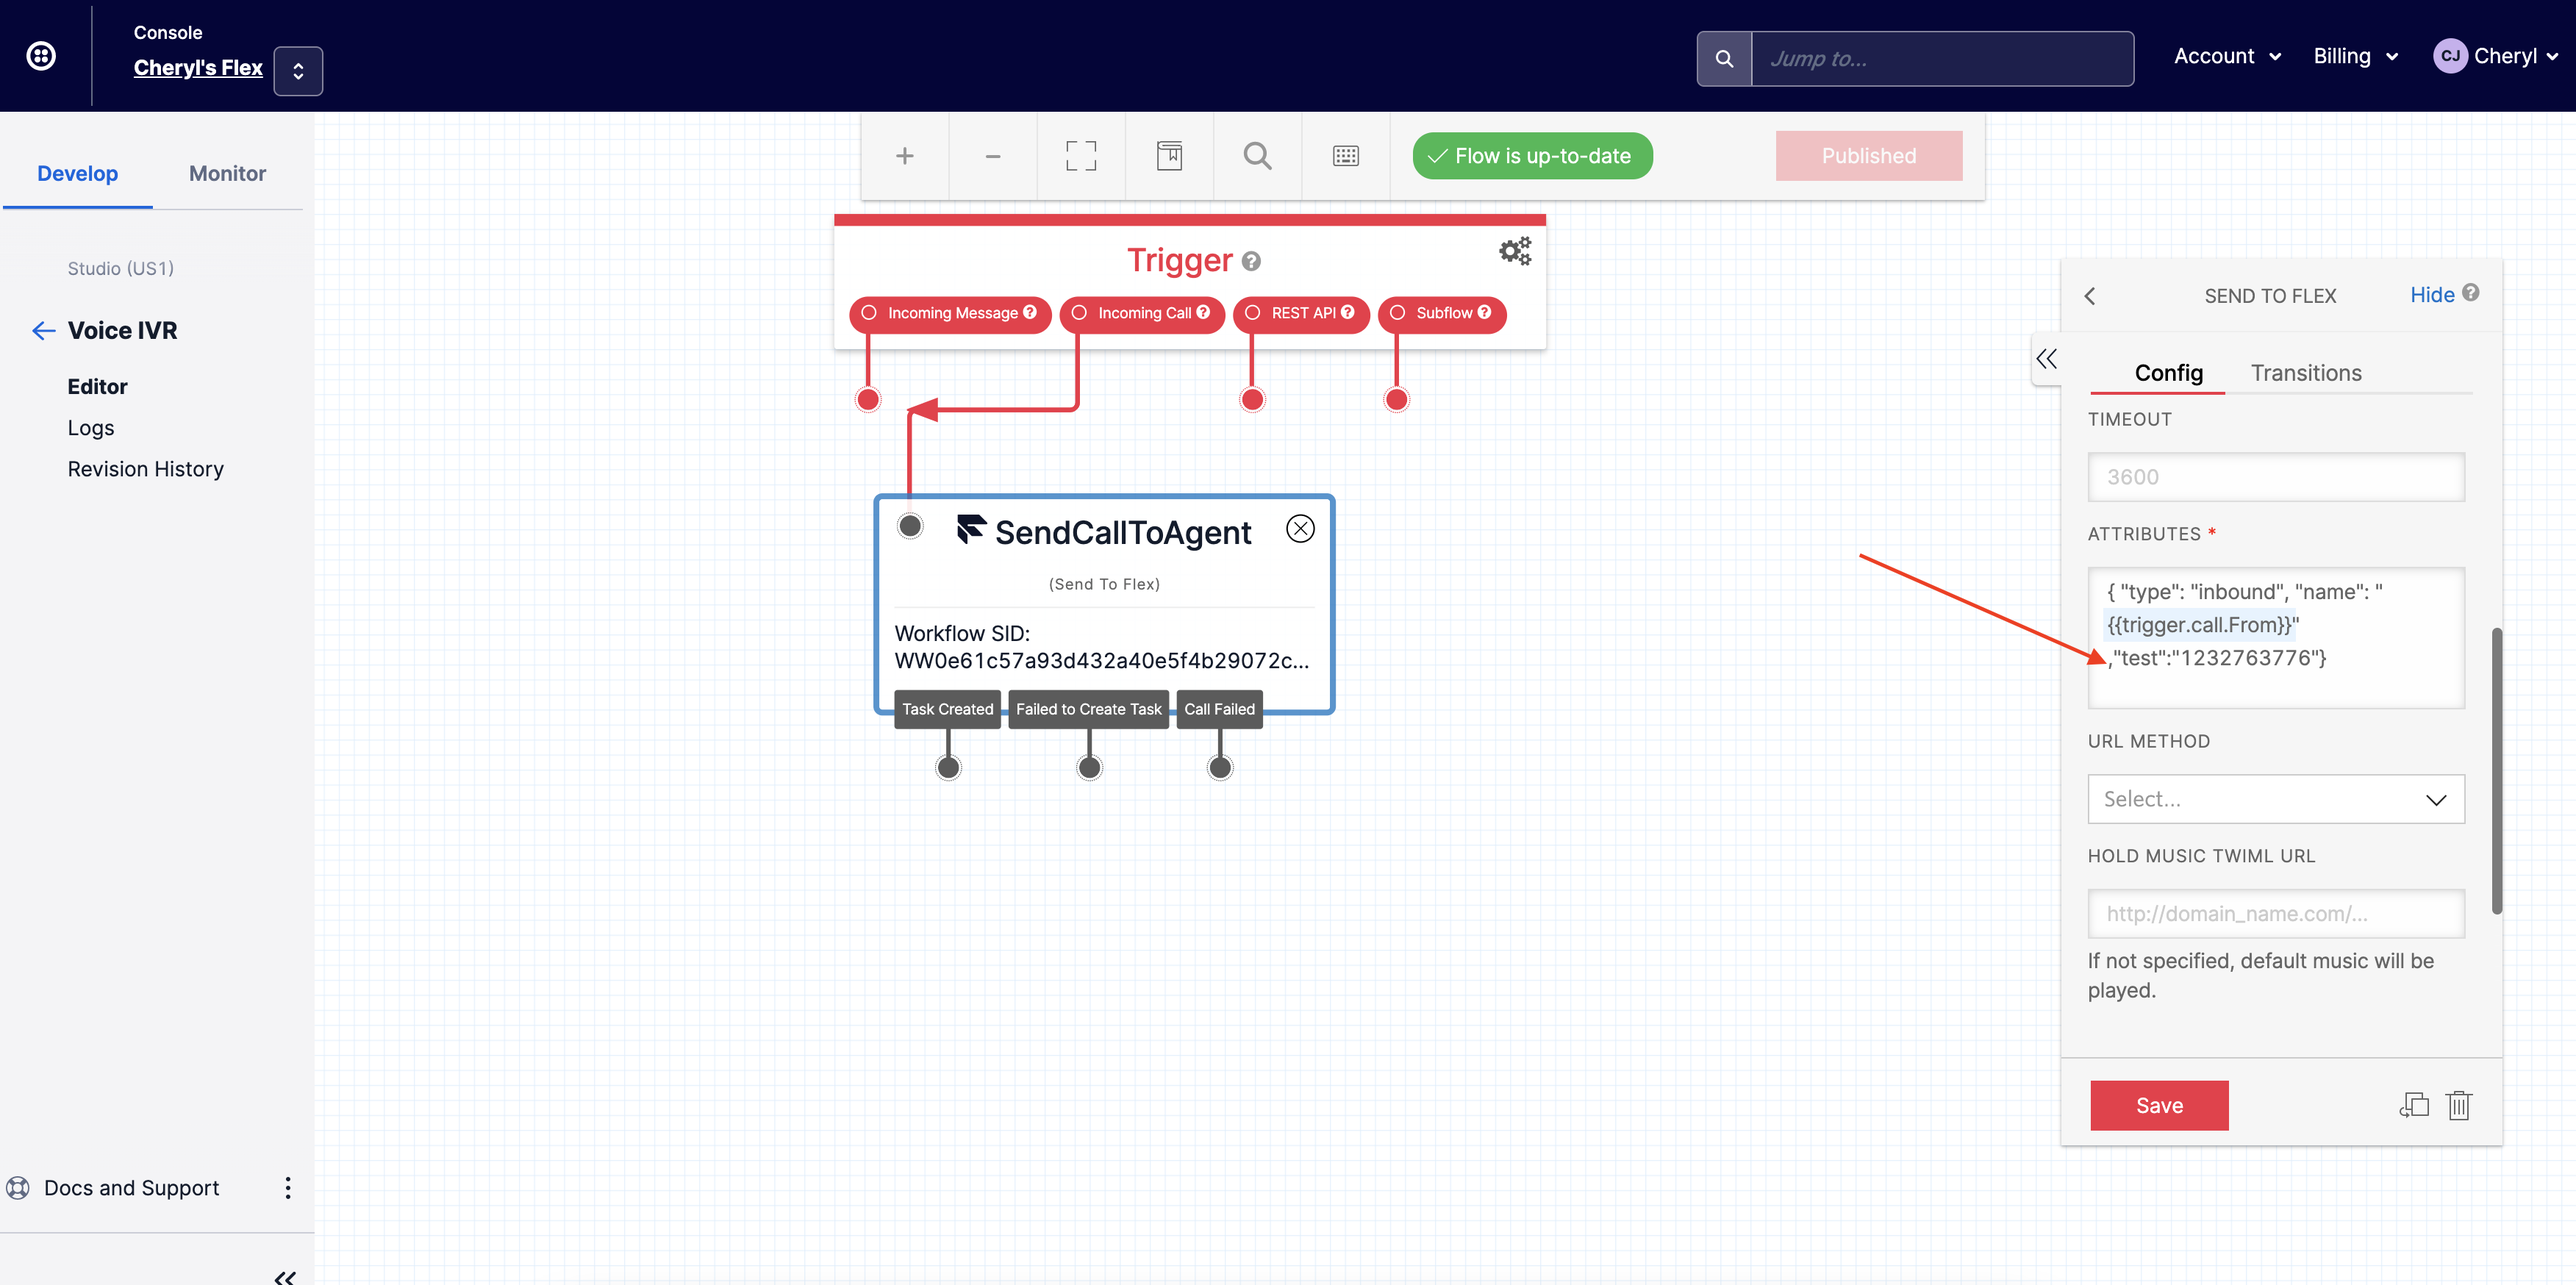
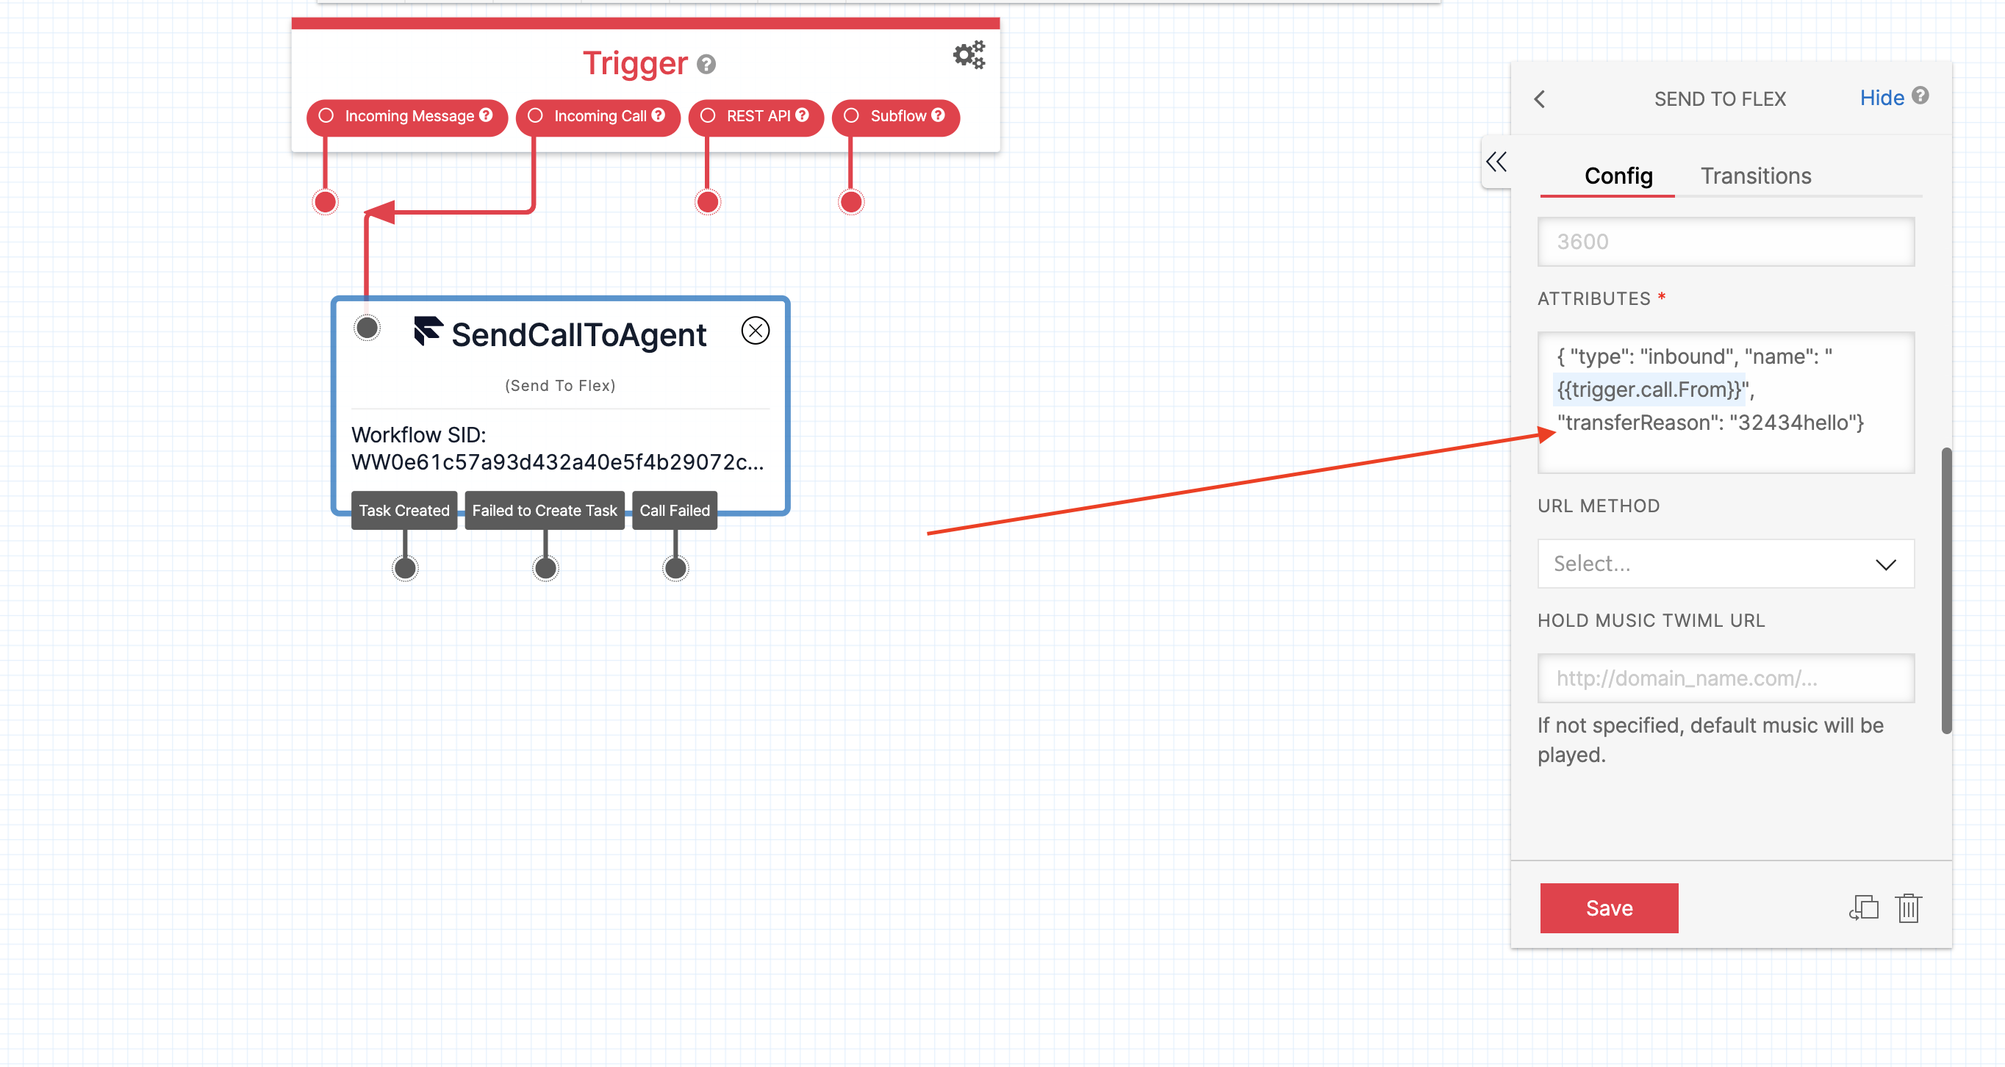
Updated readme and slighty updated the code

diff --git a/src/components/CustomTaskInfo.js b/src/components/CustomTaskInfo.js
@@ -12,8 +12,7 @@ class CustomTaskInfo extends React.Component {
     //retrieve the attribute and assign it to a parameter and populate it within return()
     const { task } = this.props;
     const { attributes, taskSid, reservationSid } = task;
-    const { name, country,test } = attributes;
-    const transferReason = test;
+    const { name, from_country, transferReason } = attributes;
 
 
     return(
@@ -21,10 +20,10 @@ class CustomTaskInfo extends React.Component {
         <h1>Customer Context</h1>
         <h2>Customer Name/ Phone Number</h2>
         <p>{name}</p>
-        {country && (
+        {from_country && (
           <React.Fragment>
             <h2>Country</h2>
-            <p>{country}</p>
+            <p>{from_country}</p>
           </React.Fragment>
         )}
         <hr color='black'></hr>
@@ -32,15 +31,19 @@ class CustomTaskInfo extends React.Component {
         {transferReason && (
           <React.Fragment>
             <h2>Transfer Reason</h2>
-            <p>{test}</p>
+            <p>{transferReason}</p>
           </React.Fragment>
         )}
         <hr color='black'></hr>
         <h1>Task Context</h1>
         <h2>Task SID</h2>
         <p>{taskSid}</p>
-        <h2>Reservation SID</h2>
-        <p>{taskSid}</p>
+        {reservationSid && (
+          <React.Fragment>
+            <h2>Reservation SID</h2>
+            <p>{reservationSid}</p>
+          </React.Fragment>
+        )}
         <hr color='black'></hr>
       </React.Fragment>
 
